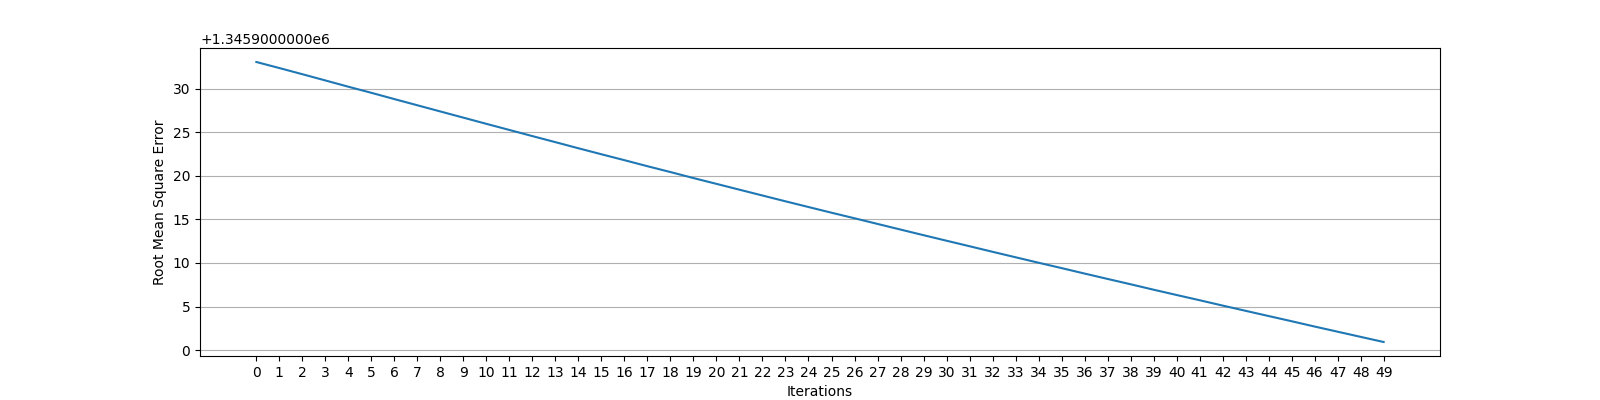
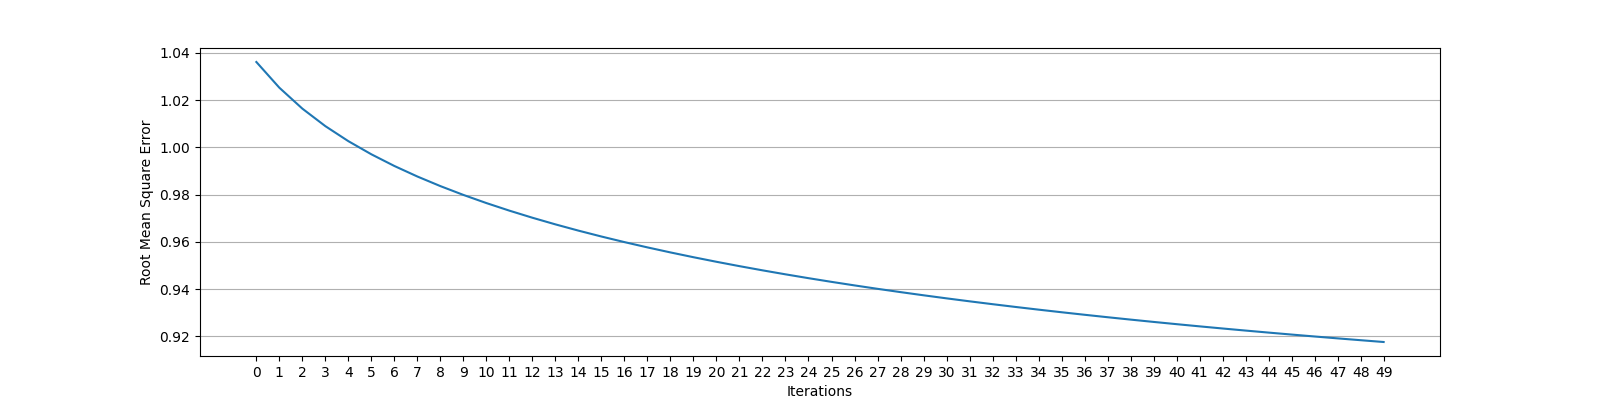
Exercise 4 done

diff --git a/Exercise_4/simon_funk_SVD.py b/Exercise_4/simon_funk_SVD.py
@@ -3,7 +3,8 @@ import numpy as np
 import matplotlib.pyplot as plt
 
 
-def mf_sgd(R, K=64, alpha=1e-4, beta=1e-2, iterations=50):  # Exchange alpha and beta
+# Try to change the value of alpha
+def mf_sgd(R, K=64, alpha=1e-4, beta=1e-2, iterations=50):
     """
     :param R: user-item rating matrix
     :param K: number of latent dimensions
@@ -35,7 +36,9 @@ def mf_sgd(R, K=64, alpha=1e-4, beta=1e-2, iterations=50):  # Exchange alpha and
     for iters in range(iterations):
         np.random.shuffle(samples)
 
+# My code start
         loss = 0
+# My code end
 
         for i, j, r in samples:
             """
@@ -45,7 +48,10 @@ def mf_sgd(R, K=64, alpha=1e-4, beta=1e-2, iterations=50):  # Exchange alpha and
             and (2)update user and item latent feature matrices "P", "Q"
             """
 
-            # My code start
+# My code start
+            # Comment out pred = 0
+            # pred = 0
+
             # Calculate prediction and error
             hat_r = b + b_u[i] + b_i[j] + np.dot(P[i, :], Q[j, :])
             d_ij = r - hat_r
@@ -63,15 +69,17 @@ def mf_sgd(R, K=64, alpha=1e-4, beta=1e-2, iterations=50):  # Exchange alpha and
             Q[j, :] -= alpha * gradient_Q
 
             # Calculate loss
-            loss += (r - np.dot(P[i, :], Q[j, :])) ** 2
-            # My code end
+            loss += ((r - b - b_u[i] - b_i[j] - np.dot(P[i, :], Q[j, :])) ** 2)
 
-        print(loss)
+        # Calculate loss
+        loss /= len(samples)
+        loss = loss ** 0.5
 
         temp = [iters, loss]
         training_loss.append(temp)
 
     pred = np.dot(P, Q.transpose())
+# My code end
 
     return pred, b, b_u, b_i, training_loss
 
@@ -104,4 +112,3 @@ if __name__ == "__main__":
     print("Item bias:")
     print(b_i)
     plot_training_loss(loss)
-    
